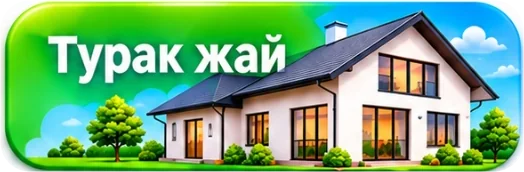
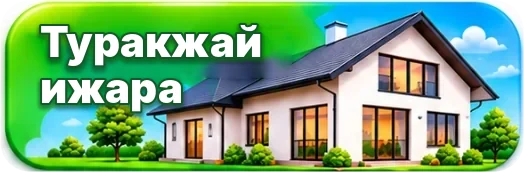
Категориянын аты: Туракжай ижара
Claude-Session: https://claude.ai/code/session_01QqaFd8xrjxrPNT2kivSLtF

Changed region(s): [[0.0611, 0.1163, 0.5802, 0.6977]]

diff --git a/static/index.html b/static/index.html
@@ -312,7 +312,7 @@ const CATS=[
  {id:"job",nm:"Жумуш берүү",ic:"work",subs:["Курулуш","Склад / сортировка","Курьер","Клининг","Такси / айдоочу","Кафе / тамак-аш","Башка жумуш"],unit:["күнүнө","жумасына","айына","саатына"]},
  {id:"jobseek",nm:"Жумуш издөө",ic:"work",subs:["Курулуш","Склад / сортировка","Курьер","Клининг","Такси / айдоочу","Кафе / тамак-аш","Үй жумушу / бала багуу","Башка жумуш"],unit:["күнүнө","айына","саатына"]},
  {id:"carsale",nm:"Автоунаа сатуу",ic:"car",subs:["Жеңил унаа","Жүк ташуучу / бус","Мотоцикл / скутер","Бөлүп төлөө / кредит","Ижарага унаа"],unit:["даана","айына","күнүнө"]},
- {id:"house",nm:"Турак жай",ic:"home",subs:["Койка-место","Бөлмө","Батир","Конок үй"],unit:["айына","күнүнө","жумасына"]},
+ {id:"house",nm:"Туракжай ижара",ic:"home",subs:["Койка-место","Бөлмө","Батир","Конок үй"],unit:["айына","күнүнө","жумасына"]},
  {id:"law",nm:"Юридикалык кызмат",ic:"law",subs:["Патент","Регистрация","РВП / ВНЖ","Жарандык","Эмгек келишими","Депорт / тыюу маселеси","Консультация"]},
  {id:"fin",nm:"Акча которуу, каржы",ic:"money",subs:["Акча которуу","Микрокредит / заем"]},
  {id:"cargo",nm:"Посылка / жүк",ic:"box",subs:["Посылка","Жүк ташуу","Контейнер"],unit:["кг үчүн","даана"]},

diff --git a/static/sw.js b/static/sw.js
@@ -1,5 +1,5 @@
 // БИЗ БИРГЕБИЗ! service worker: барак офлайн ачылат, жарыялар дайыма серверден алынат.
-const CACHE = "birgebiz-v12";
+const CACHE = "birgebiz-v13";
 const SHELL = ["/", "/manifest.webmanifest", "/static/icon.svg", "/static/icon-192.png"];
 
 self.addEventListener("install", (e) => {
